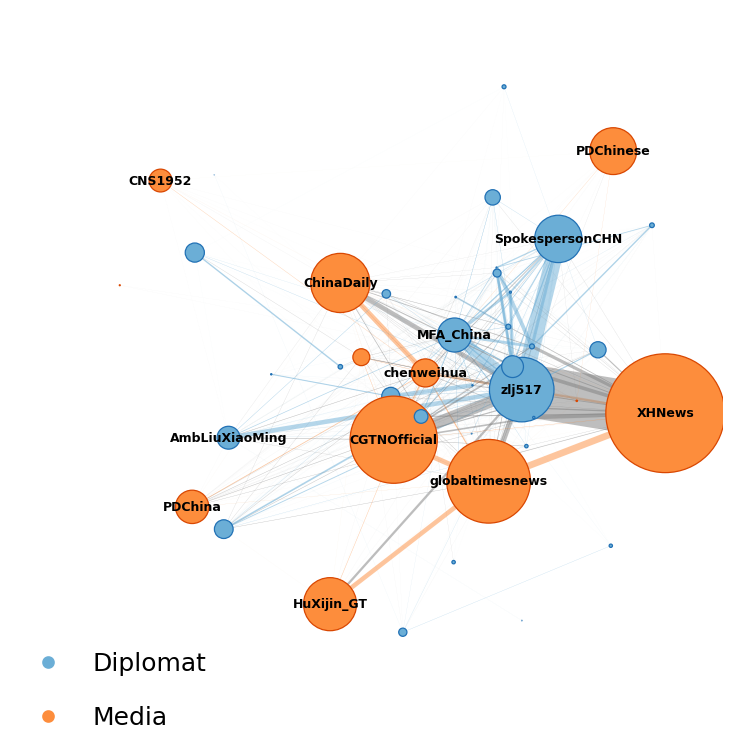
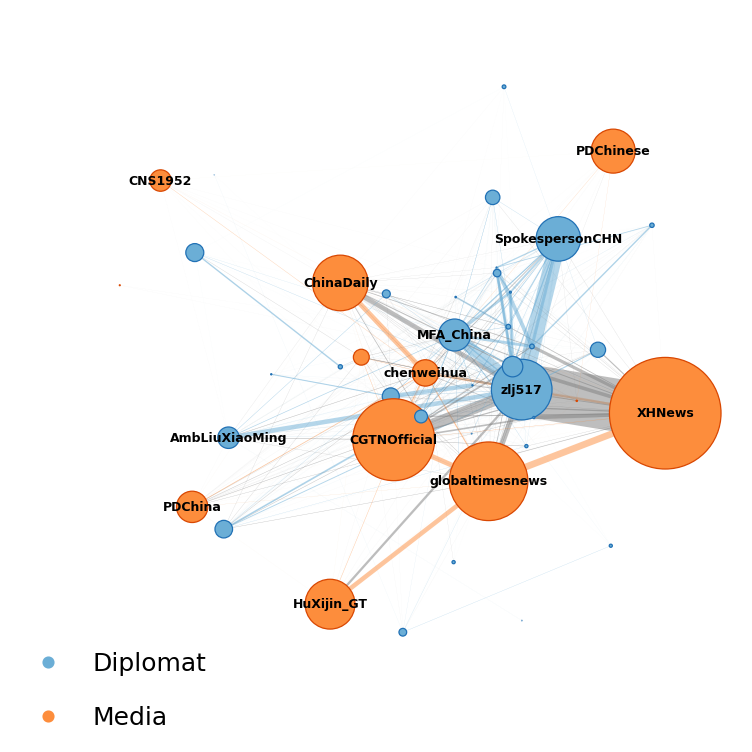
more tweaks

diff --git a/networks/src/network_main.py b/networks/src/network_main.py
@@ -207,7 +207,7 @@ def main(n_labels, infile, outfolder):
     ''' mentions '''
     edge_mult = 4.5
     print('--> generating mentions plot')
-    node_divisor = 600*15
+    node_divisor = 600*17
     edge_divisor = 100*edge_mult
     title = 'Diplomats and Media sub-network (nodesize: total number of mentions)'
     filename = 'network_focus_mentions'
@@ -238,7 +238,7 @@ def main(n_labels, infile, outfolder):
 
     ## unweighted degree
     print('--> generating unweighted degree plot')
-    node_divisor = 0.05*8
+    node_divisor = 0.05*10
     edge_divisor = 100*edge_mult
     title = 'Diplomats and Media sub-network (nodesize: number of neighbors)'
     filename = 'network_focus_unweighted_degree'
@@ -263,7 +263,7 @@ def main(n_labels, infile, outfolder):
 
     ## weighted degree 
     print('--> generating weighted degree plot')
-    node_divisor = 2.5*9
+    node_divisor = 2.5*10.5
     edge_divisor = 100*edge_mult
     title = 'Diplomats and Media sub-network (nodesize: number of neighbors weighted)'
     filename = 'network_focus_weighted_degree'
@@ -288,7 +288,7 @@ def main(n_labels, infile, outfolder):
 
     ''' in-degree '''
     print('--> generating in-degree plot')
-    node_divisor = 1.5*8
+    node_divisor = 1.5*10
     edge_divisor = 100*edge_mult
     title = 'Diplomats and Media sub-network (nodesize: in-degree -- inwards)'
     filename = 'network_focus_in_degree'
@@ -313,7 +313,7 @@ def main(n_labels, infile, outfolder):
 
     ## out-degree
     print('--> generating out-degree plot')
-    node_divisor = 1.5*8
+    node_divisor = 1.5*10
     edge_divisor = 100*edge_mult
     title = 'Diplomats and Media sub-network (nodesize: out-degree -- outwards)'
     filename = 'network_focus_out_degree'
